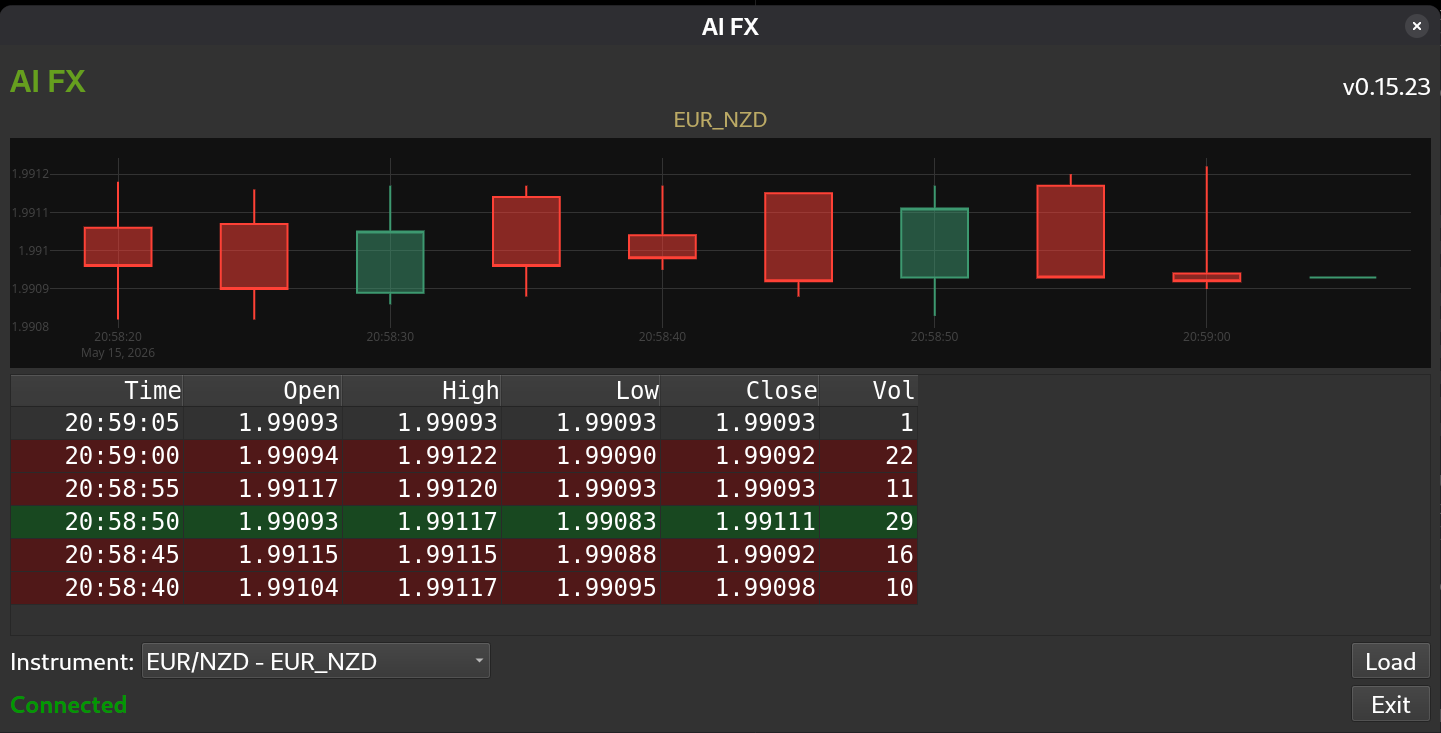
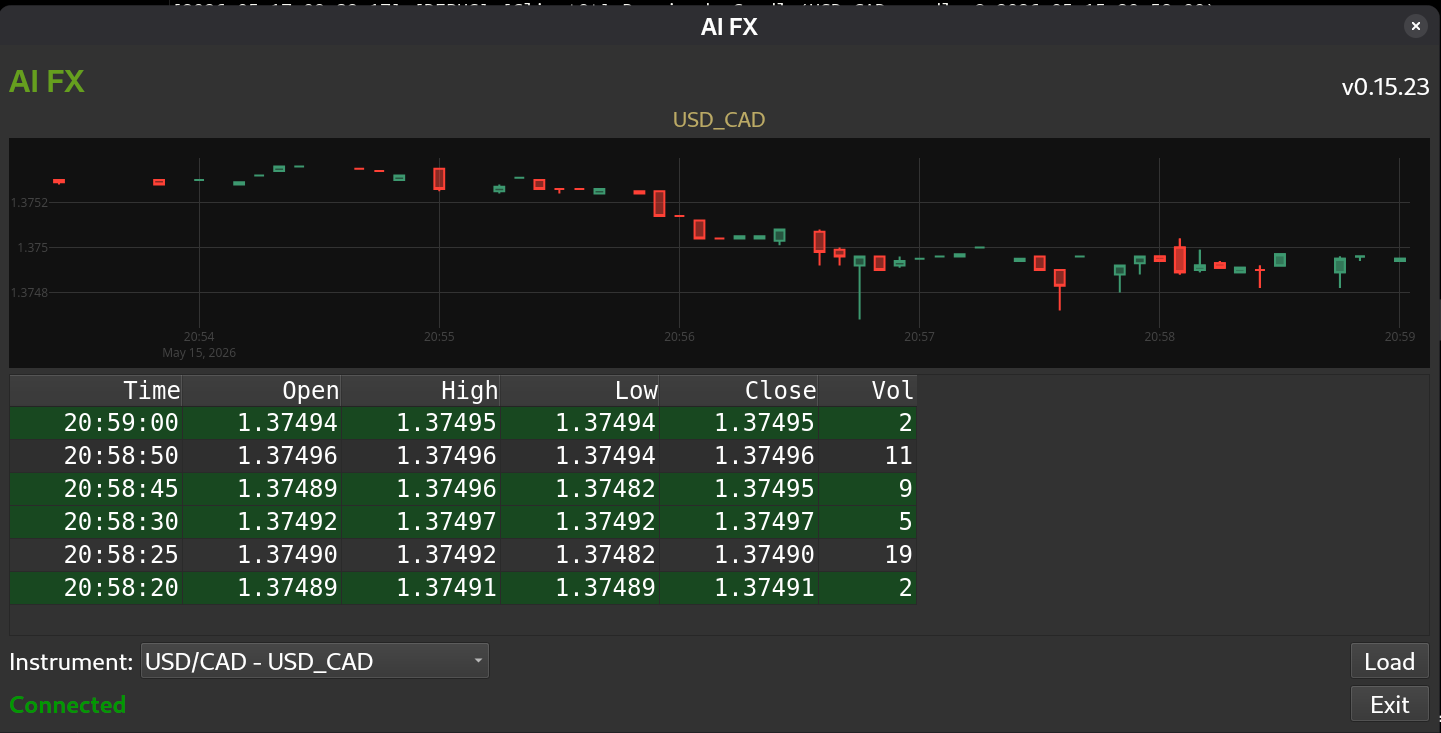
Feat: Collect screenful of historical data when loading an instrument

diff --git a/tests/unit/test_mqclient.py b/tests/unit/test_mqclient.py
@@ -13,10 +13,12 @@ import pytest
 import zmq
 from PySide6.QtCore import QCoreApplication
 
-from aifx.constants.DDb import DDbF as DBF
+from aifx.constants.DCandle import DCandleF as CANDLEF
 from aifx.constants.DDb import DColCandles as C_CAND
 from aifx.constants.DDb import DColInstrument as C_INST
+from aifx.constants.DDb import DDbF as DBF
 from aifx.constants.DInstrument import DInstrument as INS
+from aifx.constants.DInstrument import DInstrumentF as INSF
 from aifx.constants.DMethod import DMethod as METHOD
 from aifx.constants.DModule import DModule as MODULE
 from aifx.constants.DMQ import DMQ as MQ
@@ -193,6 +195,7 @@ def test_mqclient_get_recent_candles_sends_request(fake_client) -> None:
     assert msg.payload == {
         C_CAND.INSTRUMENT: "USD_CAD",
         DBF.LIMIT: 5,
+        INSF.TOPIC: "topic",
     }
 
 
@@ -223,6 +226,29 @@ def test_mqclient_poll_control_reply_emits_instruments(fake_client) -> None:
     client._poll_control_reply()
 
     assert received == [[{"name": "USD_CAD"}]]
+
+
+def test_mqclient_poll_control_reply_emits_recent_candles(fake_client) -> None:
+    client, ctx = fake_client
+    received = []
+    client.recent_candles.connect(
+        lambda topic, candles: received.append((topic, candles))
+    )
+    candles = [{C_CAND.INSTRUMENT: "USD_CAD", C_CAND.MID_C: 1.10015}]
+    reply = MQMsg(
+        sender=MODULE.BROKER,
+        target=MODULE.CLIENT_MQ,
+        method=METHOD.GET_RECENT_CANDLES_REPLY,
+        payload={
+            INSF.TOPIC: "test.candles.USD_CAD",
+            CANDLEF.CANDLES: candles,
+        },
+    )
+    ctx.sockets[0].recv_items.append(reply.to_json())
+
+    client._poll_control_reply()
+
+    assert received == [("test.candles.USD_CAD", candles)]
 
 
 def test_mqclient_bg_sub_listen_dispatches_registered_handler(fake_client) -> None:

diff --git a/aifx/client/ClientQt.py b/aifx/client/ClientQt.py
@@ -76,6 +76,7 @@ class ClientQt(QWidget):
         self.mq.connection_changed.connect(self.set_connection_status)
         self.mq.instruments_received.connect(self.update_instruments)
         self.mq.feed_started.connect(self.feed_started)
+        self.mq.recent_candles.connect(self.on_recent_candles)
 
         self.wire_signals()
         self.log.info(QTL.SIGNALS_WIRED)
@@ -160,6 +161,24 @@ class ClientQt(QWidget):
         self.mq.register_sub_handler(topic, self.on_candle_received)
         self.mq.subscribe(topic=topic)
         self.mq.start_feed(instrument=instrument)
+
+    def on_recent_candles(self, topic: str, candles: list[dict]) -> None:
+        if topic != self._active_topic:
+            self.log.warning(f"Received off-topic recent candles: {topic}")
+            return
+
+        recent_candles = [Candle.from_db(candle) for candle in candles]
+        self._candles[topic] = deque(
+            recent_candles,
+            maxlen=DEF.MAX_PLOTLY_CANDLES,
+        )
+
+        recent = list(reversed(recent_candles[-DEF.RECENT_CANDLE_MAX :]))
+        self.recent_candles_model.load_data(recent)
+        self.resize_recent_candles_columns()
+
+        self.log.debug(f"Recent candles received: {topic}: {len(recent_candles)}")
+        self.update_plot(topic=topic)
 
     def render_candles(self, topic: str) -> None:
         candles = list(self._candles.get(topic, []))

diff --git a/tests/unit/test_mqserver.py b/tests/unit/test_mqserver.py
@@ -15,9 +15,10 @@ import pytest
 from aifx.constants.DCandle import DCandleF as CANDLEF
 from aifx.constants.DDb import DColCandles as C_CAND
 from aifx.constants.DDb import DDbF as DBF
-from aifx.constants.DMQ import DMQEvent
+from aifx.constants.DInstrument import DInstrumentF as INSF
 from aifx.constants.DMethod import DMethod as METHOD
 from aifx.constants.DModule import DModule as MODULE
+from aifx.constants.DMQ import DMQEvent
 from aifx.constants.DOanda import DOanda as OANDA
 from aifx.zmq.MQMsg import MQMsg
 from aifx.zmq.MQServer import MQServer
@@ -135,7 +136,10 @@ def test_mqserver_wraps_recent_candles_handler_result_in_reply(fake_server) -> N
         candle = {C_CAND.INSTRUMENT: "USD_CAD", C_CAND.MID_C: 1.10015}
 
         async def get_recent_candles(_msg):
-            return {CANDLEF.CANDLES: [candle]}
+            return {
+                INSF.TOPIC: "test.candles.USD_CAD",
+                CANDLEF.CANDLES: [candle],
+            }
 
         server._srv_methods = {METHOD.GET_RECENT_CANDLES: get_recent_candles}
         ctx.sockets[0].on_send_multipart = server._listen_stop_event.set
@@ -166,7 +170,10 @@ def test_mqserver_wraps_recent_candles_handler_result_in_reply(fake_server) -> N
             assert reply.sender == MODULE.SERVER_MQ
             assert reply.target == MODULE.CLIENT_MQ
             assert reply.method == METHOD.GET_RECENT_CANDLES_REPLY
-            assert reply.payload == {CANDLEF.CANDLES: [candle]}
+            assert reply.payload == {
+                INSF.TOPIC: "test.candles.USD_CAD",
+                CANDLEF.CANDLES: [candle],
+            }
         finally:
             await asyncio.wait_for(task, timeout=1)
 

diff --git a/aifx/mgr/Broker.py b/aifx/mgr/Broker.py
@@ -266,9 +266,15 @@ class Broker:
                 )
 
         if candles:
-            return {CANDLEF.CANDLES: [candle.to_dict() for candle in candles]}
+            return {
+                INSF.TOPIC: msg.payload.get(INSF.TOPIC),
+                CANDLEF.CANDLES: [candle.to_dict() for candle in candles],
+            }
 
-        return {CANDLEF.CANDLES: []}
+        return {
+            INSF.TOPIC: msg.payload.get(INSF.TOPIC),
+            CANDLEF.CANDLES: [],
+        }
 
     async def handle_mq_event(self, event: MQEvent) -> None:
         if event.routing_id is None:

diff --git a/aifx/zmq/MQClient.py b/aifx/zmq/MQClient.py
@@ -18,10 +18,12 @@ import zmq
 from PySide6.QtCore import QObject, QTimer, Signal
 
 from aifx.constants.DAiFx import DAiFx as AIFX
+from aifx.constants.DCandle import DCandleF as CANDLEF
 from aifx.constants.DDb import DColCandles as C_CAND
 from aifx.constants.DDb import DColInstrument as C_INST
 from aifx.constants.DDb import DDbF as DBF
 from aifx.constants.DDef import DDef as DEF
+from aifx.constants.DInstrument import DInstrumentF as INSF
 from aifx.constants.DMethod import DMethod as METHOD
 from aifx.constants.DModule import DModule as MODULE
 from aifx.constants.DMQ import DMQ as MQ
@@ -152,6 +154,7 @@ class MQClient(QObject):
             payload={
                 C_CAND.INSTRUMENT: instrument[C_INST.NAME],
                 DBF.LIMIT: count,
+                INSF.TOPIC: topic,
             },
         )
         try:
@@ -171,7 +174,10 @@ class MQClient(QObject):
             return
 
         elif reply.method == METHOD.GET_RECENT_CANDLES_REPLY:
-            pass
+            self.recent_candles.emit(
+                reply.payload[INSF.TOPIC],
+                reply.payload[CANDLEF.CANDLES],
+            )
             return
 
         self.log.critical(f"Unhandled control reply: {reply.method}")

diff --git a/tests/unit/test_broker.py b/tests/unit/test_broker.py
@@ -132,7 +132,7 @@ def test_get_recent_candles_returns_cached_db_candles(sample_candle) -> None:
 
         result = await broker.get_recent_candles(_recent_candles_msg())
 
-        assert result == {CANDLEF.CANDLES: [sample_candle.to_dict()]}
+        assert result[CANDLEF.CANDLES] == [sample_candle.to_dict()]
         broker.get_candles_oanda.assert_not_awaited()
 
     asyncio.run(run())
@@ -149,7 +149,7 @@ def test_get_recent_candles_fetches_oanda_when_cache_is_empty(
 
         result = await broker.get_recent_candles(_recent_candles_msg(limit=5))
 
-        assert result == {CANDLEF.CANDLES: [sample_candle.to_dict()]}
+        assert result[CANDLEF.CANDLES] == [sample_candle.to_dict()]
         broker.get_candles_oanda.assert_awaited_once_with(
             instrument="USD_CAD",
             count=5,
@@ -196,7 +196,7 @@ def test_get_recent_candles_returns_empty_list_when_no_data() -> None:
 
         result = await broker.get_recent_candles(_recent_candles_msg())
 
-        assert result == {CANDLEF.CANDLES: []}
+        assert result[CANDLEF.CANDLES] == []
         broker.db_mgr.upsert.assert_not_called()
 
     asyncio.run(run())

diff --git a/aifx/constants/DDef.py b/aifx/constants/DDef.py
@@ -16,5 +16,5 @@ from aifx.constants.DLogging import DAiFxLog
 class DDef:
     DEFAULT_LOG_LEVEL: Final[str] = DAiFxLog.DEBUG
     VERSION: Final[str] = "0.15.23"
-    MAX_PLOTLY_CANDLES: Final[int] = 50
+    MAX_PLOTLY_CANDLES: Final[int] = 60
     RECENT_CANDLE_MAX: Final[int] = 6

diff --git a/pages/testing.md b/pages/testing.md
@@ -113,6 +113,7 @@ ignore_missing_imports = true
   - `test_broker_registers_shutdown_method()`
   - `test_get_recent_candles_returns_cached_db_candles()`
   - `test_get_recent_candles_fetches_oanda_when_cache_is_empty()`
+  - `test_get_recent_candles_converts_oanda_payload_to_reply_format()`
   - `test_get_recent_candles_returns_empty_list_when_no_data()`
   - `test_start_feed_creates_feed_and_background_tasks()`
   - `test_start_feed_is_idempotent_for_existing_feed()`
@@ -200,6 +201,7 @@ ignore_missing_imports = true
   - `test_mqclient_get_recent_candles_sends_request()`
   - `test_mqclient_start_feed_sends_start_feed_message()`
   - `test_mqclient_poll_control_reply_emits_instruments()`
+  - `test_mqclient_poll_control_reply_emits_recent_candles()`
   - `test_mqclient_bg_sub_listen_dispatches_registered_handler()`
   - `test_mqclient_quit_closes_sockets_and_context()`
 
@@ -231,6 +233,7 @@ ignore_missing_imports = true
   - `test_mqserver_builds_topic()`
   - `test_mqserver_connected_uses_recent_heartbeat()`
   - `test_mqserver_publish_sends_topic_and_compact_json()`
+  - `test_mqserver_wraps_recent_candles_handler_result_in_reply()`
   - `test_mqserver_send_serializes_message()`
   - `test_mqserver_recv_parses_message()`
   - `test_mqserver_register_client_adds_new_client_and_event()`